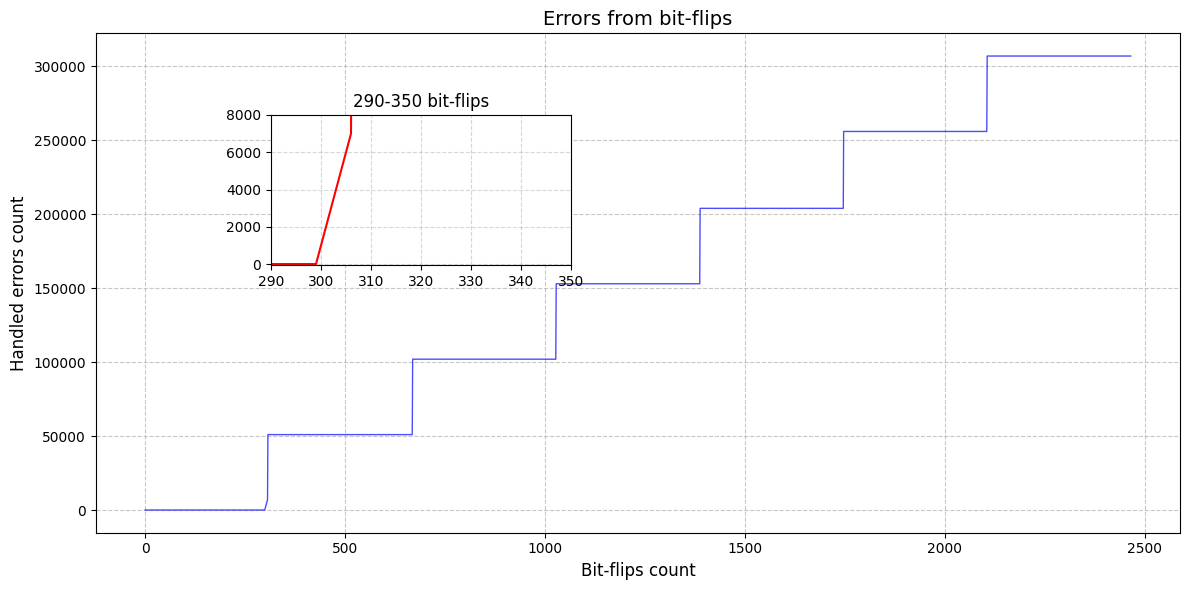
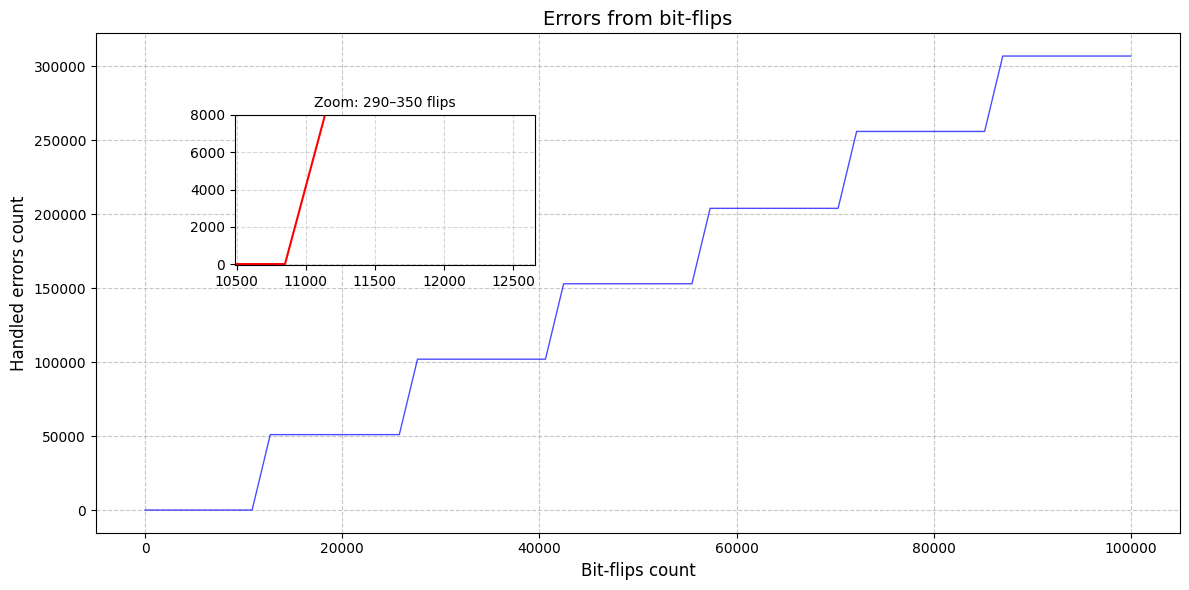
Hamming code and Readme graph update

diff --git a/std/hamming.c b/std/hamming.c
@@ -1,0 +1,69 @@
+#include "../include/hamming.h"
+
+encoded_t encode_hamming_15_11(decoded_t data) {
+    encoded_t encoded = 0;
+    encoded = SET_BIT(encoded, 2, GET_BIT(data, 0));
+    encoded = SET_BIT(encoded, 4, GET_BIT(data, 1));
+    encoded = SET_BIT(encoded, 5, GET_BIT(data, 2));
+    encoded = SET_BIT(encoded, 6, GET_BIT(data, 3));
+    encoded = SET_BIT(encoded, 8, GET_BIT(data, 4));
+    encoded = SET_BIT(encoded, 9, GET_BIT(data, 5));
+    encoded = SET_BIT(encoded, 10, GET_BIT(data, 6));
+    encoded = SET_BIT(encoded, 11, GET_BIT(data, 7));
+    encoded = SET_BIT(encoded, 12, GET_BIT(data, 8));
+    encoded = SET_BIT(encoded, 13, GET_BIT(data, 9));
+    encoded = SET_BIT(encoded, 14, GET_BIT(data, 10));
+
+    byte_t p1 = GET_BIT(encoded, 2) ^ GET_BIT(encoded, 4) ^ GET_BIT(encoded, 6) ^ GET_BIT(encoded, 8) ^ GET_BIT(encoded, 10) ^ GET_BIT(encoded, 12) ^ GET_BIT(encoded, 14);
+    byte_t p2 = GET_BIT(encoded, 2) ^ GET_BIT(encoded, 5) ^ GET_BIT(encoded, 6) ^ GET_BIT(encoded, 9) ^ GET_BIT(encoded, 10) ^ GET_BIT(encoded, 13) ^ GET_BIT(encoded, 14);
+    byte_t p4 = GET_BIT(encoded, 4) ^ GET_BIT(encoded, 5) ^ GET_BIT(encoded, 6) ^ GET_BIT(encoded, 11) ^ GET_BIT(encoded, 12) ^ GET_BIT(encoded, 13) ^ GET_BIT(encoded, 14);
+    byte_t p8 = GET_BIT(encoded, 8) ^ GET_BIT(encoded, 9) ^ GET_BIT(encoded, 10) ^ GET_BIT(encoded, 11) ^ GET_BIT(encoded, 12) ^ GET_BIT(encoded, 13) ^ GET_BIT(encoded, 14);
+
+    encoded = SET_BIT(encoded, 0, p1);
+    encoded = SET_BIT(encoded, 1, p2);
+    encoded = SET_BIT(encoded, 3, p4);
+    encoded = SET_BIT(encoded, 7, p8);
+    return encoded;
+}
+
+decoded_t decode_hamming_15_11(encoded_t encoded) {
+    byte_t s1 = GET_BIT(encoded, 0) ^ GET_BIT(encoded, 2) ^ GET_BIT(encoded, 4) ^ GET_BIT(encoded, 6) ^ GET_BIT(encoded, 8) ^ GET_BIT(encoded, 10) ^ GET_BIT(encoded, 12) ^ GET_BIT(encoded, 14);
+    byte_t s2 = GET_BIT(encoded, 1) ^ GET_BIT(encoded, 2) ^ GET_BIT(encoded, 5) ^ GET_BIT(encoded, 6) ^ GET_BIT(encoded, 9) ^ GET_BIT(encoded, 10) ^ GET_BIT(encoded, 13) ^ GET_BIT(encoded, 14);
+    byte_t s4 = GET_BIT(encoded, 3) ^ GET_BIT(encoded, 4) ^ GET_BIT(encoded, 5) ^ GET_BIT(encoded, 6) ^ GET_BIT(encoded, 11) ^ GET_BIT(encoded, 12) ^ GET_BIT(encoded, 13) ^ GET_BIT(encoded, 14);
+    byte_t s8 = GET_BIT(encoded, 7) ^ GET_BIT(encoded, 8) ^ GET_BIT(encoded, 9) ^ GET_BIT(encoded, 10) ^ GET_BIT(encoded, 11) ^ GET_BIT(encoded, 12) ^ GET_BIT(encoded, 13) ^ GET_BIT(encoded, 14);
+    byte_t error_pos = s1 + (s2 << 1) + (s4 << 2) + (s8 << 3);
+    if (error_pos) encoded = TOGGLE_BIT(encoded, (error_pos - 1));
+    
+    decoded_t data = 0;
+    data = SET_BIT(data, 0, GET_BIT(encoded, 2));
+    data = SET_BIT(data, 1, GET_BIT(encoded, 4));
+    data = SET_BIT(data, 2, GET_BIT(encoded, 5));
+    data = SET_BIT(data, 3, GET_BIT(encoded, 6));
+    data = SET_BIT(data, 4, GET_BIT(encoded, 8));
+    data = SET_BIT(data, 5, GET_BIT(encoded, 9));
+    data = SET_BIT(data, 6, GET_BIT(encoded, 10));
+    data = SET_BIT(data, 7, GET_BIT(encoded, 11));
+    data = SET_BIT(data, 8, GET_BIT(encoded, 12));
+    data = SET_BIT(data, 9, GET_BIT(encoded, 13));
+    data = SET_BIT(data, 10, GET_BIT(encoded, 14));
+    return data;
+}
+
+static unsigned char _get_byte(unsigned short* ptr, int offset) {
+    return (unsigned char)decode_hamming_15_11(ptr[offset]);
+}
+
+static int _set_byte(unsigned short* ptr, int offset, unsigned char byte) {
+    ptr[offset] = encode_hamming_15_11((unsigned short)byte);
+    return 1;
+}
+
+void* unpack_memory(unsigned short* src, unsigned char* dst, int len) {
+    for (int i = 0; i < len; i++) dst[i] = _get_byte(src, i);
+    return (void*)dst;
+}
+
+void* pack_memory(unsigned char* src, unsigned short* dst, int len) {
+    for (int i = 0; i < len; i++) _set_byte(dst, i, src[i]);
+    return (void*)dst;
+}

diff --git a/include/hamming.h b/include/hamming.h
@@ -1,0 +1,38 @@
+#ifndef HAMMING_H_
+#define HAMMING_H_
+
+#define GET_BIT(b, i) ((b >> i) & 1)
+#define SET_BIT(n, i, v) (v ? (n | (1 << i)) : (n & ~(1 << i)))
+#define TOGGLE_BIT(b, i) (b ^ (1 << i))
+
+typedef unsigned char byte_t;
+typedef unsigned short encoded_t;
+typedef unsigned short decoded_t;
+
+/*
+Unpack memory function should decode src pointed data from hamming 15,11 (With error correction).
+P.S. Before usage, allocate dst memory with size, same as count of elements in src.
+
+Params:
+- src - Source encoded data.
+- dst - Destination for decoded data.
+- len - Bytes count.
+
+Return pointer to dst.
+*/
+void* unpack_memory(unsigned short* src, unsigned char* dst, int len);
+
+/*
+Pack memory function should encode src pointed data to hamming 15,11.
+P.S. Before usage, allocate dst memory with size, same as count of elements in src.
+
+Params:
+- src - Source encoded data.
+- dst - Destination for decoded data.
+- len - Bytes count.
+
+Return pointer to dst.
+*/
+void* pack_memory(unsigned char* src, unsigned short* dst, int len);
+
+#endif

diff --git a/README.md b/README.md
@@ -72,7 +72,6 @@ if (!NIFAT32_content_exists(target_fatname)) {
 ```
 But according to data, bit-flip happened in most dangerous zone - in file allocation table.
 
-
 ## File Allocation Table
 As mentioned, the **File Allocation Table (FAT)** is the most important part of the `FAT32` file system. I won't explain how this table works — just check this [topic](https://en.wikipedia.org/wiki/Design_of_the_FAT_file_system). </br>
 The original implementation of FAT simply saved the entire table in the first sectors of the disk. If we're talking about `Flash` memory — which is the cheapest solution in terms of storage capacity vs. price, according to [this article](https://nexusindustrialmemory.com/choosing-between-flash-and-eeprom-finding-the-perfect-memory-type-for-your-embedded-system/) — it comes with serious risks, especially in `embedded` systems. These risks are explained in more detail [here](https://en.wikipedia.org/wiki/Flash_memory).
@@ -125,14 +124,8 @@ As you can see, in the modified structure, six fields with a total size of 11 by
 - etc
 
 Example of such system can be `CDBMS`, [LittleDB](https://github.com/pouriamoosavi/LittleDB), [EinkPDA](https://github.com/ashtf8/EinkPDA). </br>
-
-</br> 
-
 Additionally, `high_bits` and `low_bits` were replaced by a single `cluster` field. Historically, splitting addresses into high and low bits was justified by 16-bit target architectures, but our current target supports raw 32-bit numbers. The mechanism behind this support is described [here](https://www.reddit.com/r/arduino/comments/i3wl8f/how_do_8_bit_arduinos_handle_32bit_numbers/). </br>
 With these modifications, the required space for `directory_entry_t` has been reduced, allowing us to store significantly more entries within a single cluster. </br>
-
-</br>
-
 In summary, this simplification of `directory_entry_t` results in fewer syscalls and I/O operations. For example, with a default cluster size of approximately `sector_size * 2^3 = 512 * 8 = 4096` bytes, instead of using 26 bytes for each `directory_entry_t`, we now use only 15 bytes. This increases the number of entries per cluster from 157 to 273. </br>
 The performance improvement can be illustrated with a graph where the Y-axis represents the number of I/O operations, and the X-axis represents the number of entries in the directory:
 
@@ -141,6 +134,61 @@ The performance improvement can be illustrated with a graph where the Y-axis rep
 </p>
 
 ## Data-Flows
+
+## Modern solutions against SEU
+The most common solution against `Single Event Upsets` (SEUs) is [Hamming encoding](https://en.wikipedia.org/wiki/Hamming_code). Below is a basic implementation of Hamming encoding and decoding.
+```
+encoded_t encode_hamming_15_11(decoded_t data) {
+    encoded_t encoded = 0;
+    encoded = SET_BIT(encoded, 2, GET_BIT(data, 0));
+    encoded = SET_BIT(encoded, 4, GET_BIT(data, 1));
+    encoded = SET_BIT(encoded, 5, GET_BIT(data, 2));
+    encoded = SET_BIT(encoded, 6, GET_BIT(data, 3));
+    encoded = SET_BIT(encoded, 8, GET_BIT(data, 4));
+    encoded = SET_BIT(encoded, 9, GET_BIT(data, 5));
+    encoded = SET_BIT(encoded, 10, GET_BIT(data, 6));
+    encoded = SET_BIT(encoded, 11, GET_BIT(data, 7));
+    encoded = SET_BIT(encoded, 12, GET_BIT(data, 8));
+    encoded = SET_BIT(encoded, 13, GET_BIT(data, 9));
+    encoded = SET_BIT(encoded, 14, GET_BIT(data, 10));
+
+    byte_t p1 = GET_BIT(encoded, 2) ^ GET_BIT(encoded, 4) ^ GET_BIT(encoded, 6) ^ GET_BIT(encoded, 8) ^ GET_BIT(encoded, 10) ^ GET_BIT(encoded, 12) ^ GET_BIT(encoded, 14);
+    byte_t p2 = GET_BIT(encoded, 2) ^ GET_BIT(encoded, 5) ^ GET_BIT(encoded, 6) ^ GET_BIT(encoded, 9) ^ GET_BIT(encoded, 10) ^ GET_BIT(encoded, 13) ^ GET_BIT(encoded, 14);
+    byte_t p4 = GET_BIT(encoded, 4) ^ GET_BIT(encoded, 5) ^ GET_BIT(encoded, 6) ^ GET_BIT(encoded, 11) ^ GET_BIT(encoded, 12) ^ GET_BIT(encoded, 13) ^ GET_BIT(encoded, 14);
+    byte_t p8 = GET_BIT(encoded, 8) ^ GET_BIT(encoded, 9) ^ GET_BIT(encoded, 10) ^ GET_BIT(encoded, 11) ^ GET_BIT(encoded, 12) ^ GET_BIT(encoded, 13) ^ GET_BIT(encoded, 14);
+
+    encoded = SET_BIT(encoded, 0, p1);
+    encoded = SET_BIT(encoded, 1, p2);
+    encoded = SET_BIT(encoded, 3, p4);
+    encoded = SET_BIT(encoded, 7, p8);
+    return encoded;
+}
+
+decoded_t decode_hamming_15_11(encoded_t encoded) {
+    byte_t s1 = GET_BIT(encoded, 0) ^ GET_BIT(encoded, 2) ^ GET_BIT(encoded, 4) ^ GET_BIT(encoded, 6) ^ GET_BIT(encoded, 8) ^ GET_BIT(encoded, 10) ^ GET_BIT(encoded, 12) ^ GET_BIT(encoded, 14);
+    byte_t s2 = GET_BIT(encoded, 1) ^ GET_BIT(encoded, 2) ^ GET_BIT(encoded, 5) ^ GET_BIT(encoded, 6) ^ GET_BIT(encoded, 9) ^ GET_BIT(encoded, 10) ^ GET_BIT(encoded, 13) ^ GET_BIT(encoded, 14);
+    byte_t s4 = GET_BIT(encoded, 3) ^ GET_BIT(encoded, 4) ^ GET_BIT(encoded, 5) ^ GET_BIT(encoded, 6) ^ GET_BIT(encoded, 11) ^ GET_BIT(encoded, 12) ^ GET_BIT(encoded, 13) ^ GET_BIT(encoded, 14);
+    byte_t s8 = GET_BIT(encoded, 7) ^ GET_BIT(encoded, 8) ^ GET_BIT(encoded, 9) ^ GET_BIT(encoded, 10) ^ GET_BIT(encoded, 11) ^ GET_BIT(encoded, 12) ^ GET_BIT(encoded, 13) ^ GET_BIT(encoded, 14);
+    byte_t error_pos = s1 + (s2 << 1) + (s4 << 2) + (s8 << 3);
+    if (error_pos) encoded = TOGGLE_BIT(encoded, (error_pos - 1));
+    
+    decoded_t data = 0;
+    data = SET_BIT(data, 0, GET_BIT(encoded, 2));
+    data = SET_BIT(data, 1, GET_BIT(encoded, 4));
+    data = SET_BIT(data, 2, GET_BIT(encoded, 5));
+    data = SET_BIT(data, 3, GET_BIT(encoded, 6));
+    data = SET_BIT(data, 4, GET_BIT(encoded, 8));
+    data = SET_BIT(data, 5, GET_BIT(encoded, 9));
+    data = SET_BIT(data, 6, GET_BIT(encoded, 10));
+    data = SET_BIT(data, 7, GET_BIT(encoded, 11));
+    data = SET_BIT(data, 8, GET_BIT(encoded, 12));
+    data = SET_BIT(data, 9, GET_BIT(encoded, 13));
+    data = SET_BIT(data, 10, GET_BIT(encoded, 14));
+    return data;
+}
+```
+
+The main limitation of this algorithm is its restricted error correction capability: it can correct a single-bit error and detect (but not correct) double-bit errors. This makes it insufficient in environments with frequent or multiple simultaneous bit-flips.
 
 ## References
 - FAT32 carcase was taken from my OS project on [github](https://github.com/11adyy/AdyOS.PETPRJ) 
